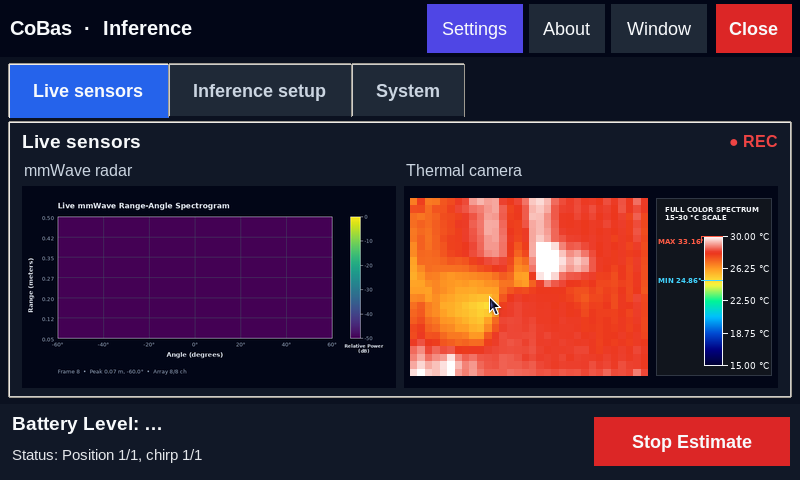
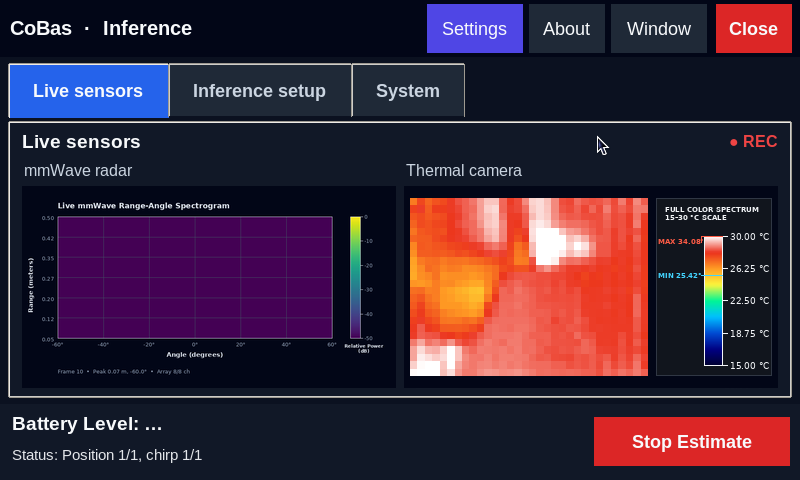
Document the full integration and accuracy check; retake result screenshots
README: all 16 checkpoints load and predict the fixture chirp's true label
(106-322 ms per chirp on the Pi 5, ONNX agrees to 1e-11); per-model accuracy
table on the Oct 21 training-day sessions (96-100 %) versus the unseen Oct 16
sessions (5-10 %, chance 9.1 %), standalone models included. Screenshots 7
and 8 retaken from a second real chirp ("Battery Level: 50%", no overlay).

diff --git a/CoBas/Inference/README.md b/CoBas/Inference/README.md
@@ -156,7 +156,29 @@ The two-modal 1-1 models behave the same way on the unseen Oct 16 sessions
 
 On the unseen day the models are confidently wrong (three-modal mean
 confidence 0.69 when wrong; mmWave-Voice and Thermal-Voice above 0.9), so
-confidence is not a usable reliability signal either. The clearest
+confidence is not a usable reliability signal either.
+
+**Full check (2026-11-07, every 8th chirp, 12 per session, both datasets).**
+All 16 checkpoints load, run on the fixture chirp and predict its true label
+(100 %); per-chirp latency including preprocessing is 106–322 ms on the Pi 5
+with four threads, and the ONNX export agrees with PyTorch to 1e-11. A real
+chirp on the device through the three-modal model returned "Battery Level:
+50%" (`Screenshots/8.png`). Accuracy per model:
+
+| Model | Oct 21 sessions (trained on) | Oct 16 sessions (unseen) | Unseen-day votes |
+|---|---|---|---|
+| Three-modal 1-1-1 | 100 % (132/132) | 9.1 % | all "100 %" |
+| mmWave-Thermal 1-1 | 100 % (132/132) | 9.8 % | all "60 %" |
+| mmWave-Voice 1-1 | 99.2 % (131/132) | 9.1 % | all "10 %" |
+| Thermal-Voice 1-1 | 96.2 % (127/132) | 9.1 % | all "60 %" |
+| Standalone thermal | 99.2 % (131/132) | 9.8 % | all "50 %" |
+| Standalone mmWave | 98.5 % (130/132) | 5.3 % | "60 %" or "10 %" |
+| Standalone voice | 97.7 % (129/132) | 8.3 % | mostly "40 %" |
+
+Chance is 9.1 %. The integration is correct (every model reproduces its
+training-day behaviour through the device pipeline); the models themselves do
+not transfer to a different recording day, and the standalone models are no
+exception. The clearest
 measurable shift between the two days is the thermal channel: mean thermal
 frame colour is (0, 134, 233) on Oct 16 versus (2, 213, 208) on Oct 21 while
 the logged temperatures differ by only 1–2 °C, which is what the absolute
